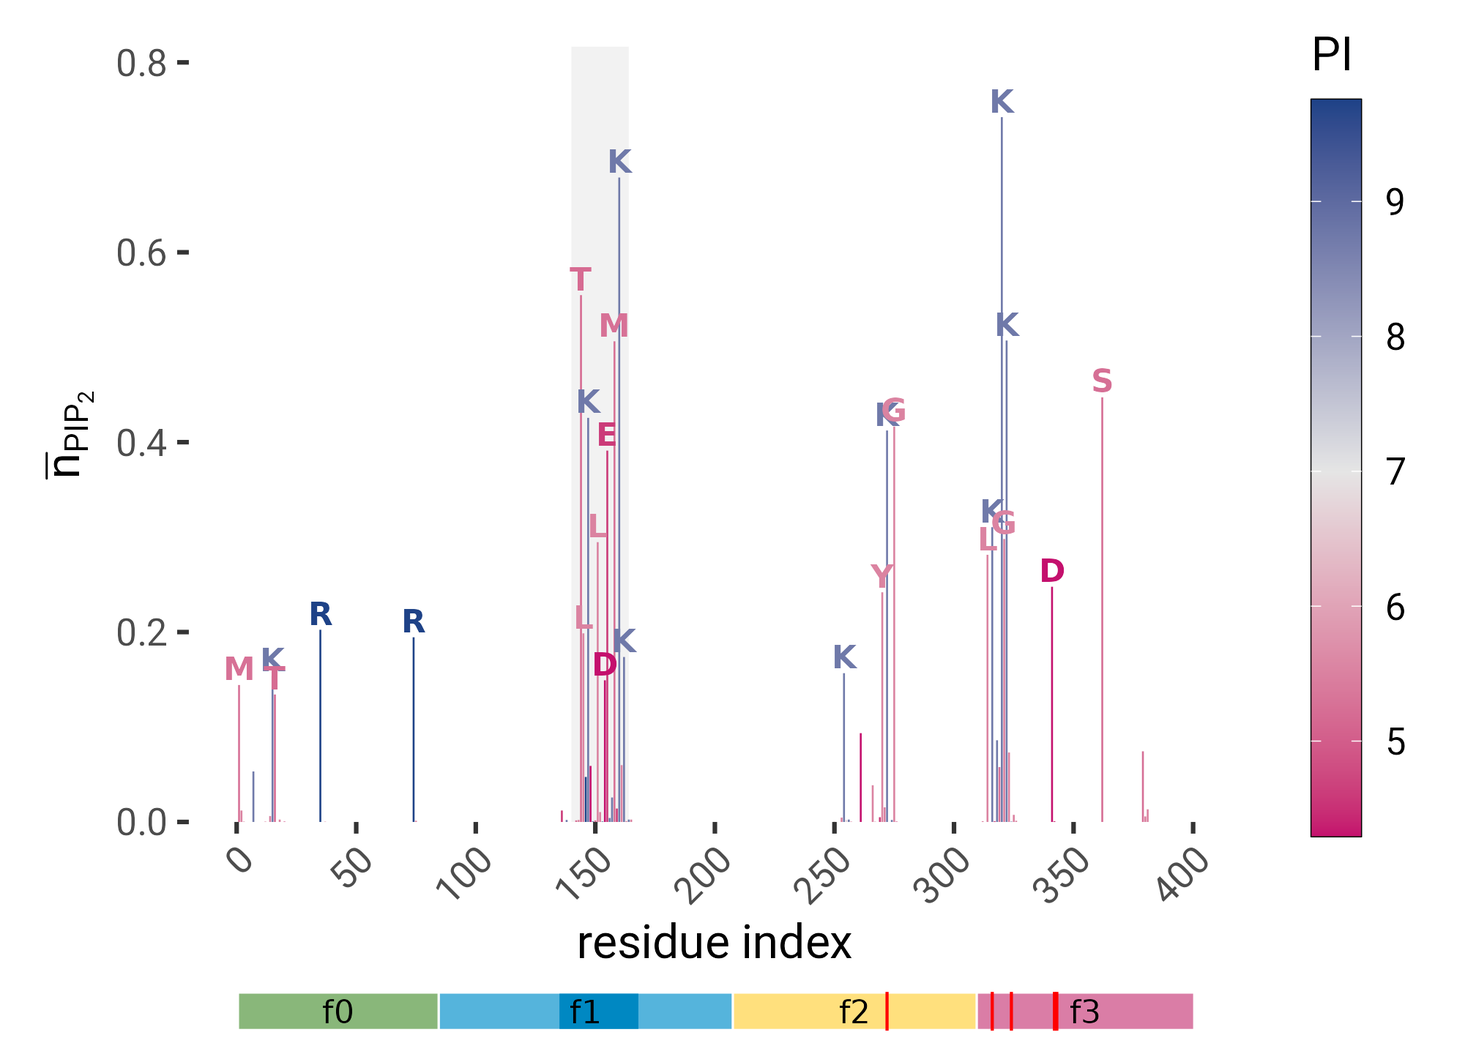
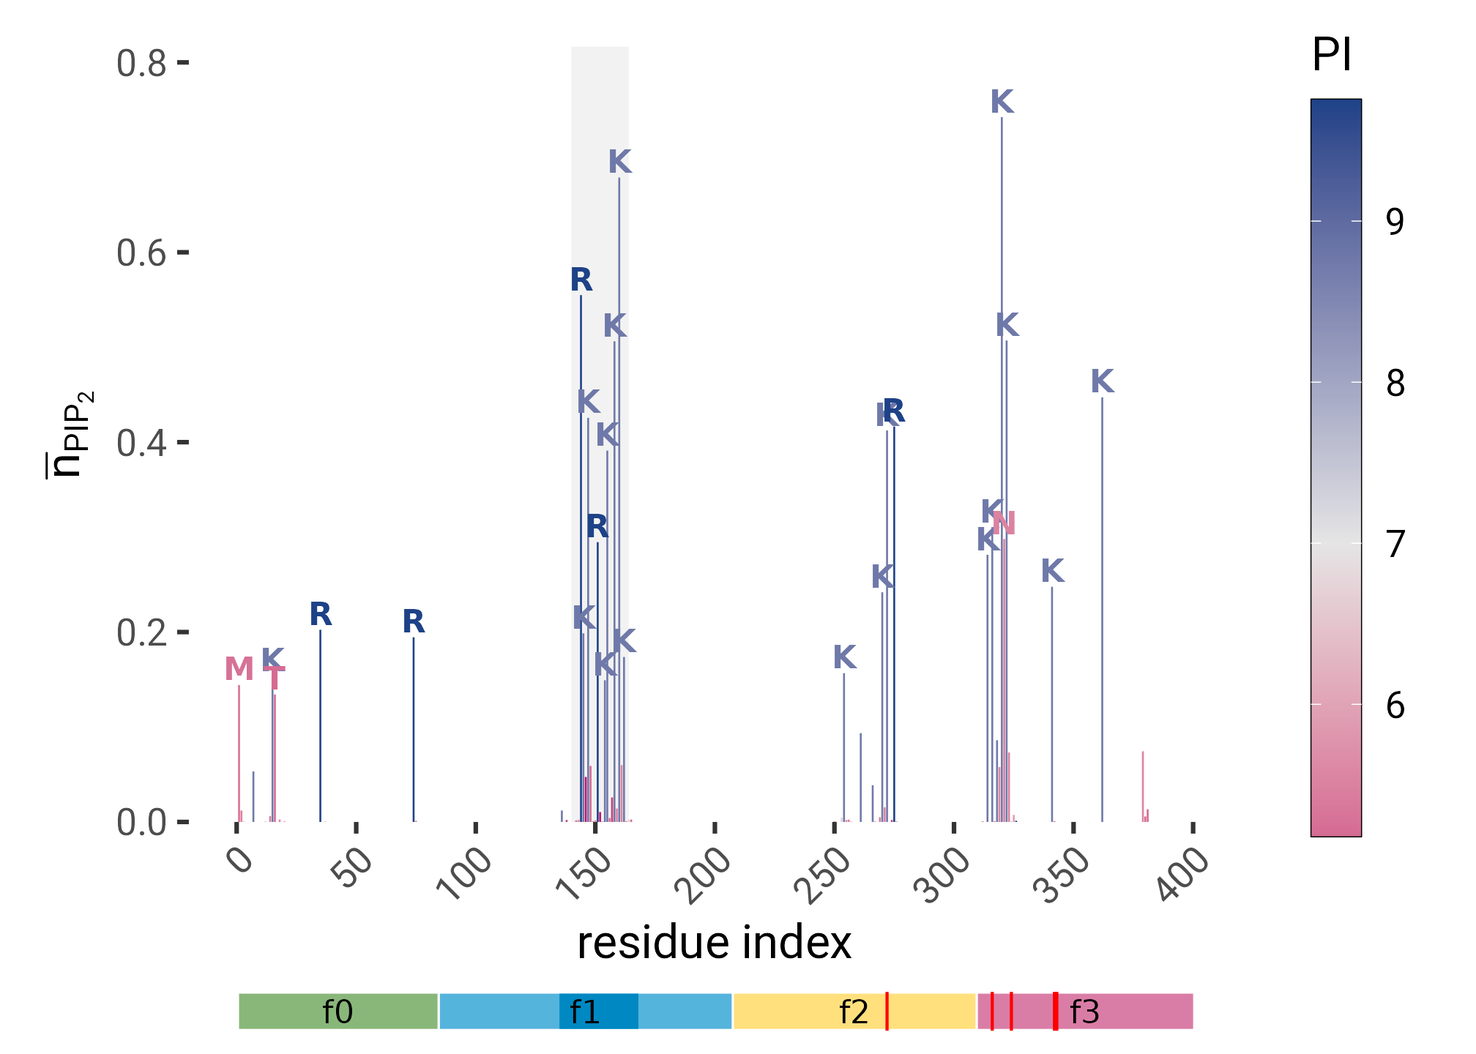
correct indexing error in sequence
and update plots accordingly

diff --git a/_analysis.html b/_analysis.html
@@ -170,8 +170,8 @@ code span.wa { color: #60a0b0; font-weight: bold; font-style: italic; } /* Warni
 </details>
 <div class="cell-output-display">
 
-<div id="htmlwidget-337c75f6be322a74dc8c" style="width:100%;height:480px;" class="visNetwork html-widget"></div>
-<script type="application/json" data-for="htmlwidget-337c75f6be322a74dc8c">{"x":{"nodes":{"name":["bool_colors","CUTOFF","data_path_prefix","data_path_prefix_basement","docked","f0f1_pulling","f0f1_pulling_dists","f0f1_pulling_interacting","f0f1_pulling_peaks","f0f1_pulling_smooth","f0f1_rot_sample_distances","f0f1_rot_sample_distances_per_run","f0f1_rot_sample_interacting_per_run","f0f1_rot_sample_run1","f0f1_top_interacting","f0f1_top_interacting_table","ferm_annotation","ferm_colors","ferm_distances","ferm_distances_per_run","ferm_interacting","ferm_interacting_per_run","ferm_pip_sites","ferm_top_interacting","ferm_top_interacting_table","first_frames","from_first_contact","interacting","path_sequence","paths_f0f1_pulling_dists","paths_f0f1_pulling_xvg","paths_f0f1_rot_sample_runs","paths_ferm_distances","rolling","rolling_regardless_of_contact","sequence","stuck","HITS_MAGENTA","binary_colors","compute_sequence","summarize_interacting_run_angle","HITS_GREEN","combine_dists","HITS_COLORS","summarize_interacting","read_pulling_dist_matrices","read_distance_csvs","HITS_YELLOW","HITS_BLUE","summarize_interacting_run","combine_interacting","sem","parse_pullf_xvg","custom_theme","read_rotsample_distance_matrices","read_ferm_distance_matrices","combine_f0f1_matrices_per_run_angle"],"type":["stem","stem","stem","stem","stem","stem","stem","stem","stem","stem","stem","pattern","pattern","pattern","stem","stem","stem","stem","stem","pattern","stem","pattern","stem","stem","stem","stem","stem","stem","stem","stem","stem","stem","stem","stem","stem","stem","stem","object","object","function","function","object","function","object","function","function","function","object","object","function","function","function","function","function","function","function","function"],"status":["uptodate","uptodate","uptodate","uptodate","uptodate","uptodate","uptodate","uptodate","uptodate","uptodate","uptodate","uptodate","uptodate","uptodate","uptodate","uptodate","uptodate","uptodate","uptodate","uptodate","uptodate","uptodate","uptodate","uptodate","uptodate","uptodate","uptodate","uptodate","uptodate","uptodate","uptodate","uptodate","uptodate","uptodate","uptodate","uptodate","uptodate","uptodate","uptodate","uptodate","uptodate","uptodate","uptodate","uptodate","uptodate","uptodate","uptodate","uptodate","uptodate","uptodate","uptodate","uptodate","uptodate","uptodate","uptodate","uptodate","uptodate"],"seconds":[0,0,0,0,2.225,5.249,12.062,1.636,0.044,9.327,2.662,548.533,2.318,1.599,0.256,0.009,0.002,0.001,0.414,62.675,0.005,4.097,0.002,0.062,0.156,0.651,1.679,0.068,0.001,0,0.01,0.004,0.002,0.555,0.764,19.592,0.03,null,null,null,null,null,null,null,null,null,null,null,null,null,null,null,null,null,null,null,null],"bytes":[103,51,75,79,384,9520023,2583334,32861,356,15240569,42101466,6509240,49048,95759,357,462,205,127,4230926,4263376,63061,73862,152,490,692,1524,569426,841625,2656,1876,36814395,1362,175,26295,30256,19398,178,null,null,null,null,null,null,null,null,null,null,null,null,null,null,null,null,null,null,null,null],"branches":[null,null,null,null,null,null,null,null,null,null,null,360,360,1,null,null,null,null,null,6,null,6,null,null,null,null,null,null,null,null,null,null,null,null,null,null,null,null,null,null,null,null,null,null,null,null,null,null,null,null,null,null,null,null,null,null,null],"label":["bool_colors","CUTOFF","data_path_prefix","data_path_prefix_basement","docked","f0f1_pulling","f0f1_pulling_dists","f0f1_pulling_interacting","f0f1_pulling_peaks","f0f1_pulling_smooth","f0f1_rot_sample_distances","f0f1_rot_sample_distances_per_run","f0f1_rot_sample_interacting_per_run","f0f1_rot_sample_run1","f0f1_top_interacting","f0f1_top_interacting_table","ferm_annotation","ferm_colors","ferm_distances","ferm_distances_per_run","ferm_interacting","ferm_interacting_per_run","ferm_pip_sites","ferm_top_interacting","ferm_top_interacting_table","first_frames","from_first_contact","interacting","path_sequence","paths_f0f1_pulling_dists","paths_f0f1_pulling_xvg","paths_f0f1_rot_sample_runs","paths_ferm_distances","rolling","rolling_regardless_of_contact","sequence","stuck","HITS_MAGENTA","binary_colors","compute_sequence","summarize_interacting_run_angle","HITS_GREEN","combine_dists","HITS_COLORS","summarize_interacting","read_pulling_dist_matrices","read_distance_csvs","HITS_YELLOW","HITS_BLUE","summarize_interacting_run","combine_interacting","sem","parse_pullf_xvg","custom_theme","read_rotsample_distance_matrices","read_ferm_distance_matrices","combine_f0f1_matrices_per_run_angle"],"color":["#354823","#354823","#354823","#354823","#354823","#354823","#354823","#354823","#354823","#354823","#354823","#354823","#354823","#354823","#354823","#354823","#354823","#354823","#354823","#354823","#354823","#354823","#354823","#354823","#354823","#354823","#354823","#354823","#354823","#354823","#354823","#354823","#354823","#354823","#354823","#354823","#354823","#354823","#354823","#354823","#354823","#354823","#354823","#354823","#354823","#354823","#354823","#354823","#354823","#354823","#354823","#354823","#354823","#354823","#354823","#354823","#354823"],"id":["bool_colors","CUTOFF","data_path_prefix","data_path_prefix_basement","docked","f0f1_pulling","f0f1_pulling_dists","f0f1_pulling_interacting","f0f1_pulling_peaks","f0f1_pulling_smooth","f0f1_rot_sample_distances","f0f1_rot_sample_distances_per_run","f0f1_rot_sample_interacting_per_run","f0f1_rot_sample_run1","f0f1_top_interacting","f0f1_top_interacting_table","ferm_annotation","ferm_colors","ferm_distances","ferm_distances_per_run","ferm_interacting","ferm_interacting_per_run","ferm_pip_sites","ferm_top_interacting","ferm_top_interacting_table","first_frames","from_first_contact","interacting","path_sequence","paths_f0f1_pulling_dists","paths_f0f1_pulling_xvg","paths_f0f1_rot_sample_runs","paths_ferm_distances","rolling","rolling_regardless_of_contact","sequence","stuck","HITS_MAGENTA","binary_colors","compute_sequence","summarize_interacting_run_angle","HITS_GREEN","combine_dists","HITS_COLORS","summarize_interacting","read_pulling_dist_matrices","read_distance_csvs","HITS_YELLOW","HITS_BLUE","summarize_interacting_run","combine_interacting","sem","parse_pullf_xvg","custom_theme","read_rotsample_distance_matrices","read_ferm_distance_matrices","combine_f0f1_matrices_per_run_angle"],"level":[2,1,1,1,8,3,3,4,5,4,5,4,5,5,7,8,0,0,4,3,5,4,0,6,7,7,8,6,2,2,2,2,2,9,7,3,8,1,0,1,1,0,0,0,0,1,1,0,1,1,0,0,1,0,2,2,3],"shape":["dot","dot","dot","dot","dot","dot","dot","dot","dot","dot","dot","square","square","square","dot","dot","dot","dot","dot","square","dot","square","dot","dot","dot","dot","dot","dot","dot","dot","dot","dot","dot","dot","dot","dot","dot","triangleDown","triangleDown","triangle","triangle","triangleDown","triangle","triangleDown","triangle","triangle","triangle","triangleDown","triangleDown","triangle","triangle","triangle","triangle","triangle","triangle","triangle","triangle"]},"edges":{"from":["read_distance_csvs","read_distance_csvs","read_rotsample_distance_matrices","HITS_BLUE","HITS_MAGENTA","first_frames","interacting","parse_pullf_xvg","paths_f0f1_pulling_xvg","interacting","sequence","CUTOFF","f0f1_rot_sample_distances_per_run","summarize_interacting_run_angle","ferm_distances_per_run","ferm_interacting_per_run","f0f1_pulling","rolling_regardless_of_contact","paths_ferm_distances","read_ferm_distance_matrices","f0f1_rot_sample_distances_per_run","CUTOFF","f0f1_pulling_dists","f0f1_top_interacting","first_frames","interacting","data_path_prefix","from_first_contact","combine_f0f1_matrices_per_run_angle","paths_f0f1_rot_sample_runs","data_path_prefix","f0f1_rot_sample_interacting_per_run","paths_f0f1_pulling_dists","read_pulling_dist_matrices","ferm_top_interacting","data_path_prefix","f0f1_pulling_smooth","CUTOFF","ferm_distances_per_run","summarize_interacting_run","f0f1_rot_sample_distances_per_run","compute_sequence","path_sequence","ferm_interacting","sequence","data_path_prefix_basement","interacting","data_path_prefix_basement","interacting"],"to":["read_rotsample_distance_matrices","read_ferm_distance_matrices","combine_f0f1_matrices_per_run_angle","bool_colors","bool_colors","from_first_contact","from_first_contact","f0f1_pulling","f0f1_pulling","f0f1_top_interacting","f0f1_top_interacting","f0f1_rot_sample_interacting_per_run","f0f1_rot_sample_interacting_per_run","f0f1_rot_sample_interacting_per_run","ferm_distances","ferm_interacting","f0f1_pulling_smooth","stuck","ferm_distances_per_run","ferm_distances_per_run","f0f1_rot_sample_run1","f0f1_pulling_interacting","f0f1_pulling_interacting","f0f1_top_interacting_table","docked","docked","paths_f0f1_pulling_dists","rolling","f0f1_rot_sample_distances_per_run","f0f1_rot_sample_distances_per_run","path_sequence","interacting","f0f1_pulling_dists","f0f1_pulling_dists","ferm_top_interacting_table","paths_f0f1_pulling_xvg","f0f1_pulling_peaks","ferm_interacting_per_run","ferm_interacting_per_run","ferm_interacting_per_run","f0f1_rot_sample_distances","sequence","sequence","ferm_top_interacting","ferm_top_interacting","paths_ferm_distances","rolling_regardless_of_contact","paths_f0f1_rot_sample_runs","first_frames"],"arrows":["to","to","to","to","to","to","to","to","to","to","to","to","to","to","to","to","to","to","to","to","to","to","to","to","to","to","to","to","to","to","to","to","to","to","to","to","to","to","to","to","to","to","to","to","to","to","to","to","to"]},"nodesToDataframe":true,"edgesToDataframe":true,"options":{"width":"100%","height":"100%","nodes":{"shape":"dot","physics":false},"manipulation":{"enabled":false},"edges":{"smooth":{"type":"cubicBezier","forceDirection":"horizontal"}},"physics":{"stabilization":false},"interaction":{"zoomSpeed":1},"layout":{"hierarchical":{"enabled":true,"direction":"LR"}}},"groups":null,"width":null,"height":null,"idselection":{"enabled":false,"style":"width: 150px; height: 26px","useLabels":true,"main":"Select by id"},"byselection":{"enabled":false,"style":"width: 150px; height: 26px","multiple":false,"hideColor":"rgba(200,200,200,0.5)","highlight":false},"main":{"text":"","style":"font-family:Georgia, Times New Roman, Times, serif;font-weight:bold;font-size:20px;text-align:center;"},"submain":null,"footer":null,"background":"rgba(0, 0, 0, 0)","highlight":{"enabled":true,"hoverNearest":false,"degree":{"from":1,"to":1},"algorithm":"hierarchical","hideColor":"rgba(200,200,200,0.5)","labelOnly":true},"collapse":{"enabled":true,"fit":false,"resetHighlight":true,"clusterOptions":null,"keepCoord":true,"labelSuffix":"(cluster)"},"legend":{"width":0.2,"useGroups":false,"position":"right","ncol":1,"stepX":100,"stepY":100,"zoom":true,"nodes":{"label":["Up to date","Stem","Pattern","Object","Function"],"color":["#354823","#899DA4","#899DA4","#899DA4","#899DA4"],"shape":["dot","dot","square","triangleDown","triangle"]},"nodesToDataframe":true},"tooltipStay":300,"tooltipStyle":"position: fixed;visibility:hidden;padding: 5px;white-space: nowrap;font-family: verdana;font-size:14px;font-color:#000000;background-color: #f5f4ed;-moz-border-radius: 3px;-webkit-border-radius: 3px;border-radius: 3px;border: 1px solid #808074;box-shadow: 3px 3px 10px rgba(0, 0, 0, 0.2);"},"evals":[],"jsHooks":[]}</script>
+<div id="htmlwidget-adb9e54833fdea870208" style="width:100%;height:480px;" class="visNetwork html-widget"></div>
+<script type="application/json" data-for="htmlwidget-adb9e54833fdea870208">{"x":{"nodes":{"name":["bool_colors","CUTOFF","data_path_prefix","data_path_prefix_basement","docked","f0f1_pulling","f0f1_pulling_dists","f0f1_pulling_interacting","f0f1_pulling_peaks","f0f1_pulling_smooth","f0f1_rot_sample_distances","f0f1_rot_sample_distances_per_run","f0f1_rot_sample_interacting_per_run","f0f1_rot_sample_run1","f0f1_top_interacting","f0f1_top_interacting_table","ferm_annotation","ferm_colors","ferm_distances","ferm_distances_per_run","ferm_interacting","ferm_interacting_per_run","ferm_pip_sites","ferm_top_interacting","ferm_top_interacting_table","first_frames","from_first_contact","interacting","path_sequence","paths_f0f1_pulling_dists","paths_f0f1_pulling_xvg","paths_f0f1_rot_sample_runs","paths_ferm_distances","rolling","rolling_regardless_of_contact","sequence","stuck","HITS_MAGENTA","binary_colors","compute_sequence","summarize_interacting_run_angle","HITS_GREEN","combine_dists","HITS_COLORS","summarize_interacting","read_pulling_dist_matrices","read_distance_csvs","HITS_YELLOW","HITS_BLUE","summarize_interacting_run","combine_interacting","sem","parse_pullf_xvg","custom_theme","read_rotsample_distance_matrices","read_ferm_distance_matrices","combine_f0f1_matrices_per_run_angle"],"type":["stem","stem","stem","stem","stem","stem","stem","stem","stem","stem","stem","pattern","pattern","pattern","stem","stem","stem","stem","stem","pattern","stem","pattern","stem","stem","stem","stem","stem","stem","stem","stem","stem","stem","stem","stem","stem","stem","stem","object","object","function","function","object","function","object","function","function","function","object","object","function","function","function","function","function","function","function","function"],"status":["uptodate","uptodate","uptodate","uptodate","uptodate","uptodate","uptodate","uptodate","uptodate","uptodate","uptodate","uptodate","uptodate","uptodate","uptodate","uptodate","uptodate","uptodate","uptodate","uptodate","uptodate","uptodate","uptodate","uptodate","uptodate","uptodate","uptodate","uptodate","uptodate","uptodate","uptodate","uptodate","uptodate","uptodate","uptodate","uptodate","uptodate","uptodate","uptodate","uptodate","uptodate","uptodate","uptodate","uptodate","uptodate","uptodate","uptodate","uptodate","uptodate","uptodate","uptodate","uptodate","uptodate","uptodate","uptodate","uptodate","uptodate"],"seconds":[0,0,0,0,2.225,5.249,12.062,1.636,0.044,9.327,2.662,548.533,2.318,1.599,0.589,0.032,0.002,0.001,0.414,62.675,0.005,4.097,0.002,0.07,0.579,0.651,1.679,0.068,0.001,0,0.01,0.004,0.002,0.555,0.764,4.821,0.03,null,null,null,null,null,null,null,null,null,null,null,null,null,null,null,null,null,null,null,null],"bytes":[103,51,75,79,384,9520023,2583334,32861,356,15240569,42101466,6509240,49048,95759,345,462,205,127,4230926,4263376,63061,73862,152,472,692,1524,569426,841625,409,1876,36814395,1362,175,26295,30256,4221,178,null,null,null,null,null,null,null,null,null,null,null,null,null,null,null,null,null,null,null,null],"branches":[null,null,null,null,null,null,null,null,null,null,null,360,360,1,null,null,null,null,null,6,null,6,null,null,null,null,null,null,null,null,null,null,null,null,null,null,null,null,null,null,null,null,null,null,null,null,null,null,null,null,null,null,null,null,null,null,null],"label":["bool_colors","CUTOFF","data_path_prefix","data_path_prefix_basement","docked","f0f1_pulling","f0f1_pulling_dists","f0f1_pulling_interacting","f0f1_pulling_peaks","f0f1_pulling_smooth","f0f1_rot_sample_distances","f0f1_rot_sample_distances_per_run","f0f1_rot_sample_interacting_per_run","f0f1_rot_sample_run1","f0f1_top_interacting","f0f1_top_interacting_table","ferm_annotation","ferm_colors","ferm_distances","ferm_distances_per_run","ferm_interacting","ferm_interacting_per_run","ferm_pip_sites","ferm_top_interacting","ferm_top_interacting_table","first_frames","from_first_contact","interacting","path_sequence","paths_f0f1_pulling_dists","paths_f0f1_pulling_xvg","paths_f0f1_rot_sample_runs","paths_ferm_distances","rolling","rolling_regardless_of_contact","sequence","stuck","HITS_MAGENTA","binary_colors","compute_sequence","summarize_interacting_run_angle","HITS_GREEN","combine_dists","HITS_COLORS","summarize_interacting","read_pulling_dist_matrices","read_distance_csvs","HITS_YELLOW","HITS_BLUE","summarize_interacting_run","combine_interacting","sem","parse_pullf_xvg","custom_theme","read_rotsample_distance_matrices","read_ferm_distance_matrices","combine_f0f1_matrices_per_run_angle"],"color":["#354823","#354823","#354823","#354823","#354823","#354823","#354823","#354823","#354823","#354823","#354823","#354823","#354823","#354823","#354823","#354823","#354823","#354823","#354823","#354823","#354823","#354823","#354823","#354823","#354823","#354823","#354823","#354823","#354823","#354823","#354823","#354823","#354823","#354823","#354823","#354823","#354823","#354823","#354823","#354823","#354823","#354823","#354823","#354823","#354823","#354823","#354823","#354823","#354823","#354823","#354823","#354823","#354823","#354823","#354823","#354823","#354823"],"id":["bool_colors","CUTOFF","data_path_prefix","data_path_prefix_basement","docked","f0f1_pulling","f0f1_pulling_dists","f0f1_pulling_interacting","f0f1_pulling_peaks","f0f1_pulling_smooth","f0f1_rot_sample_distances","f0f1_rot_sample_distances_per_run","f0f1_rot_sample_interacting_per_run","f0f1_rot_sample_run1","f0f1_top_interacting","f0f1_top_interacting_table","ferm_annotation","ferm_colors","ferm_distances","ferm_distances_per_run","ferm_interacting","ferm_interacting_per_run","ferm_pip_sites","ferm_top_interacting","ferm_top_interacting_table","first_frames","from_first_contact","interacting","path_sequence","paths_f0f1_pulling_dists","paths_f0f1_pulling_xvg","paths_f0f1_rot_sample_runs","paths_ferm_distances","rolling","rolling_regardless_of_contact","sequence","stuck","HITS_MAGENTA","binary_colors","compute_sequence","summarize_interacting_run_angle","HITS_GREEN","combine_dists","HITS_COLORS","summarize_interacting","read_pulling_dist_matrices","read_distance_csvs","HITS_YELLOW","HITS_BLUE","summarize_interacting_run","combine_interacting","sem","parse_pullf_xvg","custom_theme","read_rotsample_distance_matrices","read_ferm_distance_matrices","combine_f0f1_matrices_per_run_angle"],"level":[2,1,1,1,8,3,3,4,5,4,5,4,5,5,7,8,0,0,4,3,5,4,0,6,7,7,8,6,2,2,2,2,2,9,7,3,8,1,0,1,1,0,0,0,0,1,1,0,1,1,0,0,1,0,2,2,3],"shape":["dot","dot","dot","dot","dot","dot","dot","dot","dot","dot","dot","square","square","square","dot","dot","dot","dot","dot","square","dot","square","dot","dot","dot","dot","dot","dot","dot","dot","dot","dot","dot","dot","dot","dot","dot","triangleDown","triangleDown","triangle","triangle","triangleDown","triangle","triangleDown","triangle","triangle","triangle","triangleDown","triangleDown","triangle","triangle","triangle","triangle","triangle","triangle","triangle","triangle"]},"edges":{"from":["read_distance_csvs","read_distance_csvs","read_rotsample_distance_matrices","HITS_BLUE","HITS_MAGENTA","first_frames","interacting","parse_pullf_xvg","paths_f0f1_pulling_xvg","interacting","sequence","CUTOFF","f0f1_rot_sample_distances_per_run","summarize_interacting_run_angle","ferm_distances_per_run","ferm_interacting_per_run","f0f1_pulling","rolling_regardless_of_contact","paths_ferm_distances","read_ferm_distance_matrices","f0f1_rot_sample_distances_per_run","CUTOFF","f0f1_pulling_dists","f0f1_top_interacting","first_frames","interacting","data_path_prefix","from_first_contact","combine_f0f1_matrices_per_run_angle","paths_f0f1_rot_sample_runs","data_path_prefix","f0f1_rot_sample_interacting_per_run","paths_f0f1_pulling_dists","read_pulling_dist_matrices","ferm_top_interacting","data_path_prefix","f0f1_pulling_smooth","CUTOFF","ferm_distances_per_run","summarize_interacting_run","f0f1_rot_sample_distances_per_run","compute_sequence","path_sequence","ferm_interacting","sequence","data_path_prefix_basement","interacting","data_path_prefix_basement","interacting"],"to":["read_rotsample_distance_matrices","read_ferm_distance_matrices","combine_f0f1_matrices_per_run_angle","bool_colors","bool_colors","from_first_contact","from_first_contact","f0f1_pulling","f0f1_pulling","f0f1_top_interacting","f0f1_top_interacting","f0f1_rot_sample_interacting_per_run","f0f1_rot_sample_interacting_per_run","f0f1_rot_sample_interacting_per_run","ferm_distances","ferm_interacting","f0f1_pulling_smooth","stuck","ferm_distances_per_run","ferm_distances_per_run","f0f1_rot_sample_run1","f0f1_pulling_interacting","f0f1_pulling_interacting","f0f1_top_interacting_table","docked","docked","paths_f0f1_pulling_dists","rolling","f0f1_rot_sample_distances_per_run","f0f1_rot_sample_distances_per_run","path_sequence","interacting","f0f1_pulling_dists","f0f1_pulling_dists","ferm_top_interacting_table","paths_f0f1_pulling_xvg","f0f1_pulling_peaks","ferm_interacting_per_run","ferm_interacting_per_run","ferm_interacting_per_run","f0f1_rot_sample_distances","sequence","sequence","ferm_top_interacting","ferm_top_interacting","paths_ferm_distances","rolling_regardless_of_contact","paths_f0f1_rot_sample_runs","first_frames"],"arrows":["to","to","to","to","to","to","to","to","to","to","to","to","to","to","to","to","to","to","to","to","to","to","to","to","to","to","to","to","to","to","to","to","to","to","to","to","to","to","to","to","to","to","to","to","to","to","to","to","to"]},"nodesToDataframe":true,"edgesToDataframe":true,"options":{"width":"100%","height":"100%","nodes":{"shape":"dot","physics":false},"manipulation":{"enabled":false},"edges":{"smooth":{"type":"cubicBezier","forceDirection":"horizontal"}},"physics":{"stabilization":false},"interaction":{"zoomSpeed":1},"layout":{"hierarchical":{"enabled":true,"direction":"LR"}}},"groups":null,"width":null,"height":null,"idselection":{"enabled":false,"style":"width: 150px; height: 26px","useLabels":true,"main":"Select by id"},"byselection":{"enabled":false,"style":"width: 150px; height: 26px","multiple":false,"hideColor":"rgba(200,200,200,0.5)","highlight":false},"main":{"text":"","style":"font-family:Georgia, Times New Roman, Times, serif;font-weight:bold;font-size:20px;text-align:center;"},"submain":null,"footer":null,"background":"rgba(0, 0, 0, 0)","highlight":{"enabled":true,"hoverNearest":false,"degree":{"from":1,"to":1},"algorithm":"hierarchical","hideColor":"rgba(200,200,200,0.5)","labelOnly":true},"collapse":{"enabled":true,"fit":false,"resetHighlight":true,"clusterOptions":null,"keepCoord":true,"labelSuffix":"(cluster)"},"legend":{"width":0.2,"useGroups":false,"position":"right","ncol":1,"stepX":100,"stepY":100,"zoom":true,"nodes":{"label":["Up to date","Stem","Pattern","Object","Function"],"color":["#354823","#899DA4","#899DA4","#899DA4","#899DA4"],"shape":["dot","dot","square","triangleDown","triangle"]},"nodesToDataframe":true},"tooltipStay":300,"tooltipStyle":"position: fixed;visibility:hidden;padding: 5px;white-space: nowrap;font-family: verdana;font-size:14px;font-color:#000000;background-color: #f5f4ed;-moz-border-radius: 3px;-webkit-border-radius: 3px;border-radius: 3px;border: 1px solid #808074;box-shadow: 3px 3px 10px rgba(0, 0, 0, 0.2);"},"evals":[],"jsHooks":[]}</script>
 </div>
 </div>
 </section>

diff --git a/results/tables/ferm-top-interacting-tbl.md b/results/tables/ferm-top-interacting-tbl.md
@@ -7,23 +7,23 @@ Table: Top residues interacting with FERM {#tbl-ferm-top-interacting}
 |T 16    |      0.134|
 |R 35    |      0.202|
 |R 74    |      0.195|
-|T 144   |      0.555|
-|L 145   |      0.199|
+|R 144   |      0.555|
+|K 145   |      0.199|
 |K 147   |      0.426|
-|L 151   |      0.295|
-|D 154   |      0.149|
-|E 155   |      0.391|
-|M 158   |      0.506|
+|R 151   |      0.295|
+|K 154   |      0.149|
+|K 155   |      0.391|
+|K 158   |      0.506|
 |K 160   |      0.679|
 |K 162   |      0.174|
 |K 254   |      0.157|
-|Y 270   |      0.242|
+|K 270   |      0.242|
 |K 272   |      0.412|
-|G 275   |      0.416|
-|L 314   |      0.281|
+|R 275   |      0.416|
+|K 314   |      0.281|
 |K 316   |      0.310|
 |K 320   |      0.742|
-|G 321   |      0.298|
+|N 321   |      0.298|
 |K 322   |      0.507|
-|D 341   |      0.248|
-|S 362   |      0.447|
+|K 341   |      0.248|
+|K 362   |      0.447|

diff --git a/results/tables/f0f1-top-interacting-tbl.md b/results/tables/f0f1-top-interacting-tbl.md
@@ -8,12 +8,12 @@ Table: Top residues interacting with F0F1 {#tbl-f0f1-top-interacting}
 |R 35    |      0.155|
 |K 98    |      0.101|
 |R 118   |      0.127|
-|T 144   |      0.179|
+|R 144   |      0.179|
 |K 147   |      0.155|
-|L 151   |      0.209|
-|D 154   |      0.144|
-|E 155   |      0.152|
-|M 158   |      0.154|
+|R 151   |      0.209|
+|K 154   |      0.144|
+|K 155   |      0.152|
+|K 158   |      0.154|
 |K 160   |      0.139|
 |K 162   |      0.107|
-|L 193   |      0.120|
+|R 193   |      0.120|
